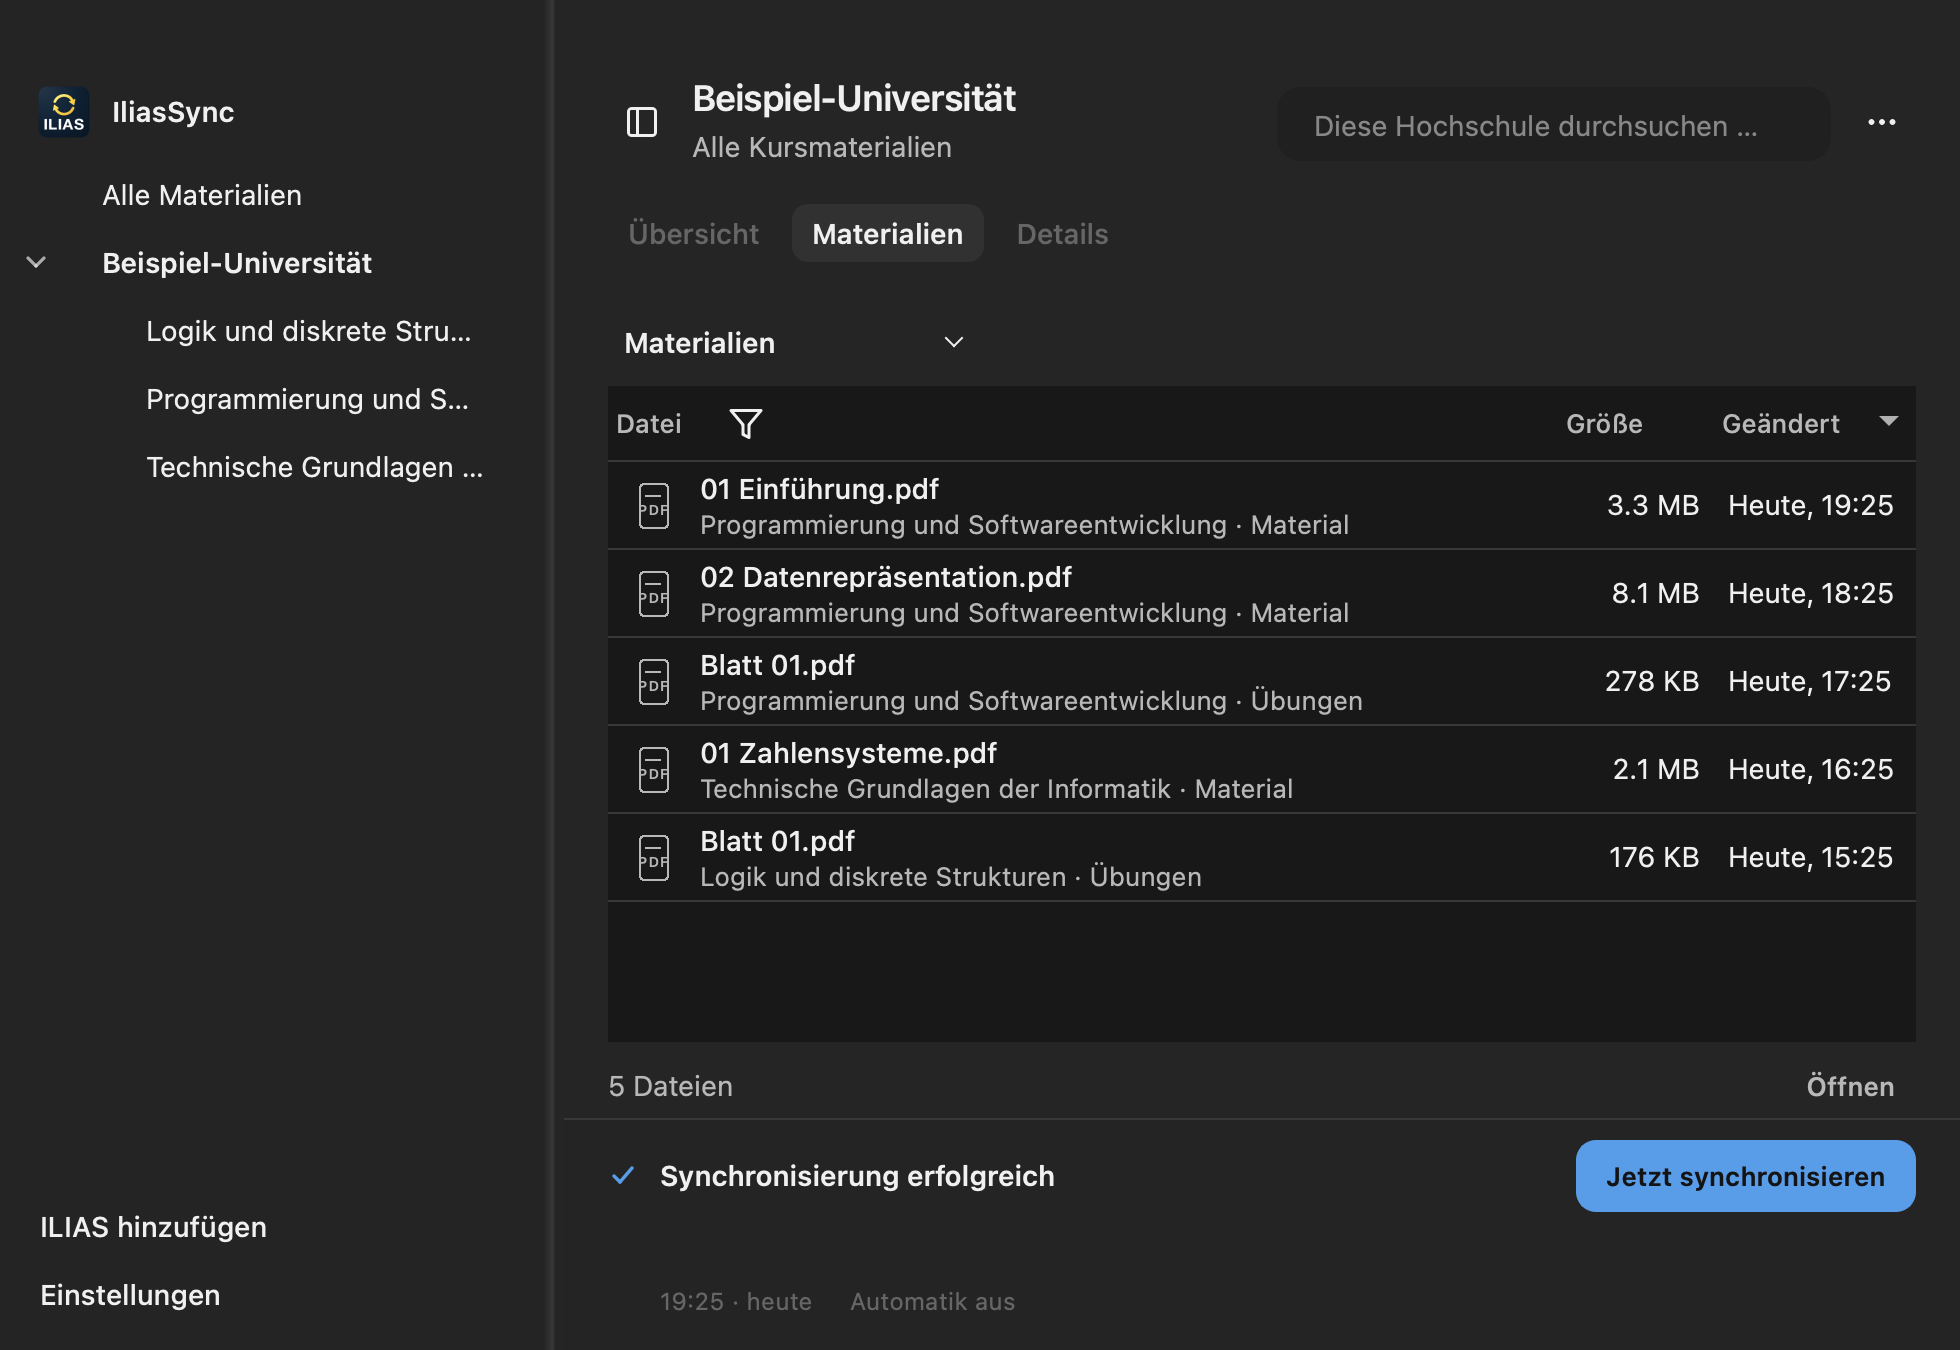
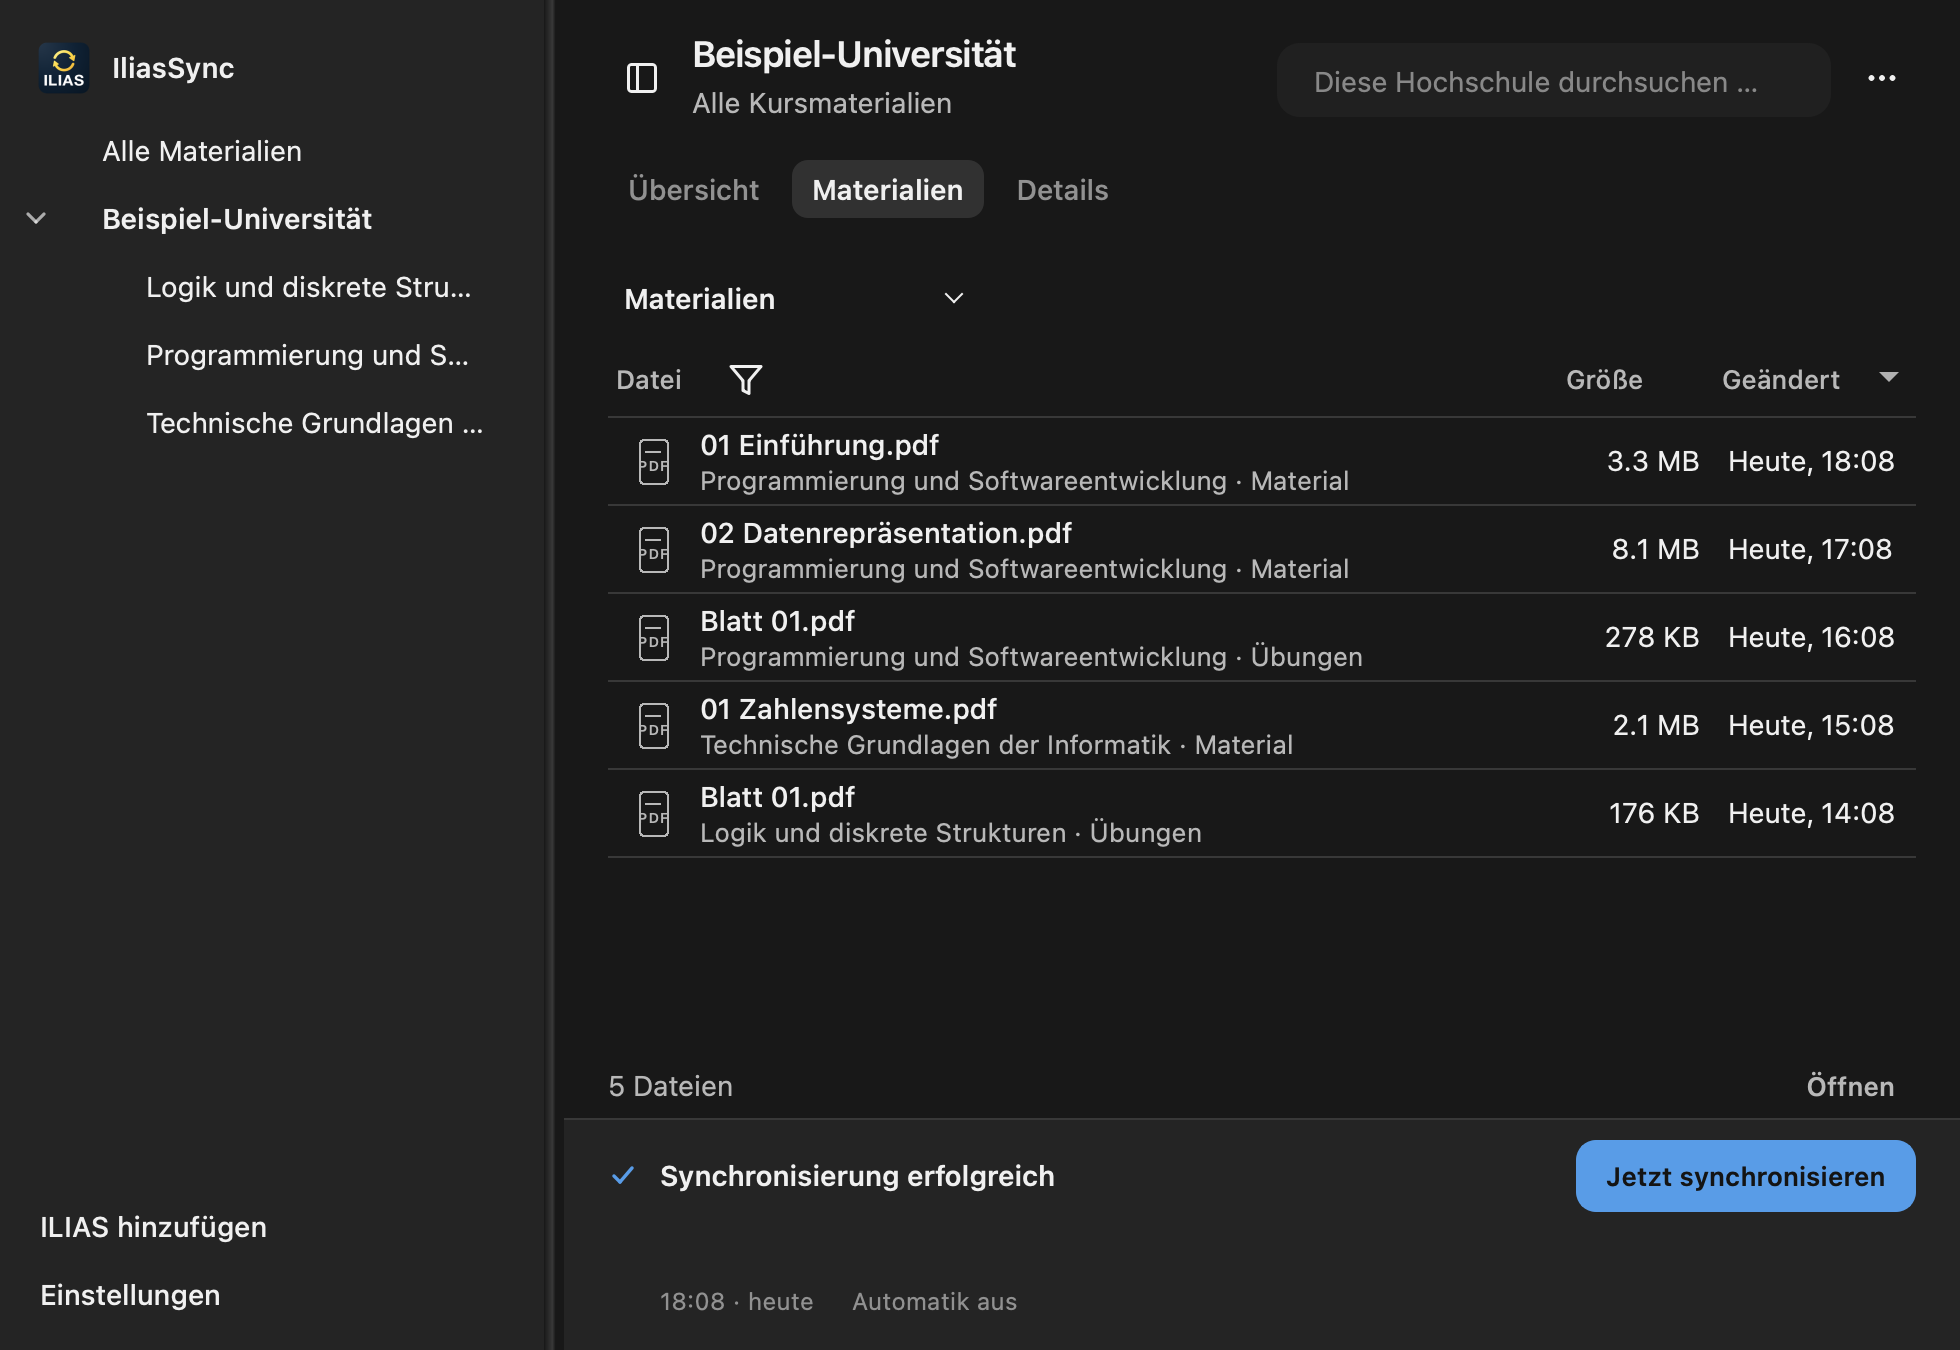
Prepare 1.0.2 installer release and refreshed dark preview

diff --git a/src/ilias_sync/__init__.py b/src/ilias_sync/__init__.py
@@ -1,1 +1,1 @@
-__version__ = "1.0.1"
+__version__ = "1.0.2"

diff --git a/docs/INSTALLATION.md b/docs/INSTALLATION.md
@@ -13,13 +13,36 @@ App vertraust; deaktivere keine systemweiten Schutzfunktionen.
 
 ## Windows
 
-Windows 10/11 x64. ZIP vollständig in einen dauerhaften Ordner entpacken.
-`IliasSync.exe` und `_internal` zusammen lassen. Das Windows-Paket hat keine
-Authenticode-Signatur; Windows kann eine Reputationswarnung anzeigen.
+Windows 10/11 x64. **Empfohlen:** `IliasSync-1.0.2-Windows-x64-Setup.exe` öffnen
+und dem Installationsassistenten folgen. Die App wird für deinen Benutzer unter
+`%LOCALAPPDATA%\Programs\IliasSync` installiert, ohne Administratorrechte.
+Danach findest du IliasSync im Startmenü; eine Desktop-Verknüpfung ist optional.
+Ein erneuter Installer-Lauf aktualisiert dieselbe Installation.
+
+**Portable Alternative:** ZIP zuerst über **Alle extrahieren** vollständig in
+einen dauerhaften Ordner entpacken. `IliasSync.exe` und `_internal` zusammen lassen.
+Ein Start direkt aus dem ZIP führt zu „Failed to load Python DLL“, weil Windows
+dabei nur die EXE temporär entpackt.
+
+Installer und App haben keine Authenticode-Signatur; Windows kann eine
+Reputationswarnung anzeigen. Der Installer beseitigt diese Signaturgrenze nicht.
 
 ## Linux
 
-x64, glibc 2.35+, grafische Sitzung. Beispiel für Ubuntu:
+x64, glibc 2.35+, grafische Sitzung. **Ubuntu 22.04+ / kompatible Debian-Systeme:**
+DEB über die grafische Paketverwaltung installieren oder im Download-Ordner:
+
+```sh
+sudo apt install ./IliasSync-1.0.2-Linux-x64.deb
+```
+
+APT installiert die benötigten Systembibliotheken. Die App liegt unter
+`/opt/iliassync`; ein Eintrag im App-Menü und der Befehl `ilias-sync` sind enthalten.
+Weitere Versionen desselben Pakets aktualisieren die vorhandene Installation.
+Auf Debian ist mindestens glibc 2.35 erforderlich, beispielsweise Debian 12+.
+
+**Andere Distributionen / portable Nutzung:** TAR.GZ vollständig entpacken,
+`./IliasSync/IliasSync` starten. Beispiel für die benötigten Bibliotheken auf Ubuntu:
 
 ```sh
 sudo apt install libegl1 libxkbcommon-x11-0 libxcb-cursor0 libdbus-1-3
@@ -27,8 +50,25 @@ sudo apt install libegl1 libxkbcommon-x11-0 libxcb-cursor0 libdbus-1-3
 
 Passwortspeicherung erfordert einen entsperrten Secret-Service- oder
 KWallet-Passwortspeicher. Hintergrundläufe benötigen eine systemd-Benutzersitzung.
-`install-desktop.sh` ist optional und erzeugt einen Menüeintrag für den aktuellen
-Benutzer. Das entpackte App-Verzeichnis muss danach an seinem Ort bleiben.
+Beim portablen Archiv erzeugt `install-desktop.sh` optional einen Menüeintrag für
+den aktuellen Benutzer. Das entpackte App-Verzeichnis muss danach an seinem Ort
+bleiben. Ein DEB ist kein Paket für RPM-basierte Distributionen.
+
+## Aktualisieren und deinstallieren
+
+Beende die App und einen laufenden Sync vor einem Update. Unter Windows den neuen
+Installer ausführen, unter Ubuntu/Debian das neue DEB installieren, unter macOS die
+App in Programme ersetzen.
+
+- **Windows:** Einstellungen → Apps → Installierte Apps → IliasSync → Deinstallieren.
+- **Ubuntu/Debian:** Über die Paketverwaltung entfernen oder `sudo apt remove iliassync`.
+- **macOS:** App aus Programme in den Papierkorb verschieben.
+
+Installationsdateien und Menüeinträge werden entfernt. Deine Materialordner,
+Einstellungen und Einträge im System-Passwortspeicher bleiben erhalten. Schalte vor
+einer dauerhaften Deinstallation die automatische Synchronisierung in der App aus,
+damit kein verwaister Zeitplan zurückbleibt. Bei einem Wechsel vom portablen Archiv
+zur installierten App den Zeitplan vom neuen Installationsort erneut speichern.
 
 ## Anmeldung
 

diff --git a/docs/DEVELOPMENT.md b/docs/DEVELOPMENT.md
@@ -26,7 +26,8 @@ Gesamtsammlung geprüft; Qt-Testfenster sammeln sich so nicht zwischen Modulen a
 | `python -m ilias_sync --sync` | Fällige Quellen einmal synchronisieren, danach beenden |
 | `python -m ilias_sync --sync --profile <UUID>` | Manueller Lauf; umgeht Fälligkeit und Akkupause |
 | `python -m ilias_sync --discover --profile <UUID>` | Beigetretene Kurse lesen |
-| `python scripts/build.py` | Natives Paket mit Lizenztexten und Prüfsumme bauen |
+| `python scripts/build.py` | Natives Paket, Windows-Setup bzw. Linux-DEB mit Lizenztexten und Prüfsummen bauen |
+| `python scripts/verify_install.py` | Nur auf isolierten CI-Runnern: Installer, installierte Runtime, erneute Installation und Deinstallation prüfen |
 | `python scripts/capture_product.py` | Reproduzierbare Qt-Screenshots mit synthetischen Beispielen |
 | `python scripts/review_interface.py` | Helle/dunkle UX-Zustände inklusive Fehler, Pause, Erststart und kompakter Fenster; Ausgabe unter `.local/redesign-review` |
 
@@ -40,4 +41,4 @@ und [Prüfgrenzen](VERIFICATION.md).
 
 ## Release erstellen
 
-Version in `pyproject.toml` und `src/ilias_sync/__init__.py` gemeinsam erhöhen, Release-Notizen unter `docs/releases/<version>.md` ergänzen und alle Änderungen prüfen. Der Workflow **Test and package** baut vier native Pakete. Erst nach seinem erfolgreichen Abschluss wird **Publish verified release** mit dessen Run-ID gestartet. Der Veröffentlichungsworkflow prüft Quelle, Version, alle vier Jobs und jede Prüfsumme. Kein Paket wird lokal für ein fremdes Betriebssystem vorgetäuscht.
+Version in `pyproject.toml` und `src/ilias_sync/__init__.py` gemeinsam erhöhen, Release-Notizen unter `docs/releases/<version>.md` ergänzen und alle Änderungen prüfen. Der Workflow **Test and package** baut auf vier nativen Zielen zwei DMGs, Windows-Setup und ZIP sowie Linux-DEB und TAR.GZ. Windows benötigt Inno Setup 6 (auf dem CI-Image vorhanden), Linux `dpkg-deb` und für die Installationsprüfung `desktop-file-validate`. Erst nach erfolgreichem Abschluss wird **Publish verified release** mit dessen Run-ID gestartet. Der Veröffentlichungsworkflow prüft Quelle, Version, alle vier Jobs und alle sechs Pakete mit ihren Prüfsummen. Kein Paket wird lokal für ein fremdes Betriebssystem vorgetäuscht.

diff --git a/docs/releases/1.0.2.md b/docs/releases/1.0.2.md
@@ -1,0 +1,15 @@
+# IliasSync 1.0.2
+
+Dieses Update vereinfacht die Installation unter Windows und Ubuntu/Debian und korrigiert die Darstellung außerhalb von macOS.
+
+- **Windows:** Neuer Setup-Assistent installiert die gesamte App für deinen Benutzer, legt einen Startmenü-Eintrag an und registriert die Deinstallation unter „Installierte Apps“. Eine Desktop-Verknüpfung ist optional. Das portable ZIP bleibt verfügbar; vor dem Start vollständig entpacken.
+- **Ubuntu/Debian:** Neues DEB-Paket mit App-Menü-Eintrag, Icon und benötigten Systembibliotheken. Über die Paketverwaltung installieren oder `sudo apt install ./IliasSync-1.0.2-Linux-x64.deb` ausführen. Andere Distributionen können weiterhin das portable TAR.GZ verwenden.
+- **Windows und Linux:** Fenster, Dialoge und Auswahlmenüs verwenden deckende Flächen statt Transparenz, die dort keinen nativen Hintergrund hatte. Das verhindert durchscheinende und falsch gemischte helle/dunkle Inhalte.
+- **Fehlerhinweise:** Die Beschreibung steht direkt unter und links bündig mit der Statusüberschrift; Uhrzeit und Zeitplan folgen darunter.
+- **GitHub:** Die Hauptvorschau zeigt die App immer im Darkmode.
+
+Installer und DEB enthalten Python und Qt. Installationsprüfungen auf nativen CI-Runnern kontrollieren die installierte Runtime, eine erneute Installation und die Deinstallation. Materialien und Einstellungen liegen außerhalb der Installation und werden beim Entfernen der App behalten. Vor einer dauerhaften Deinstallation die Automatik in der App ausschalten. Beim Wechsel vom portablen Paket den Zeitplan am neuen Installationsort erneut speichern.
+
+macOS 13+ (Apple Silicon/Intel), Windows 10/11 x64 und Linux x64 mit glibc 2.35+. Das DEB richtet sich an Ubuntu 22.04+ und kompatible Debian-Systeme. macOS-Pakete sind ad-hoc signiert, aber nicht notarisiert; Windows-App und Installer haben keine Authenticode-Signatur. Kein automatischer Updater.
+
+Alle Pakete und `SHA256SUMS` stehen unten. [Installation](https://github.com/schroedernils/ilias-sync/blob/v1.0.2/docs/INSTALLATION.md) · [Prüfgrenzen](https://github.com/schroedernils/ilias-sync/blob/v1.0.2/docs/VERIFICATION.md)

diff --git a/README.md b/README.md
@@ -42,10 +42,13 @@ Python und Qt sind in den Paketen enthalten. Lade das passende Paket aus dem [ak
 
 | Computer | Download | Start |
 | --- | --- | --- |
-| **Mac mit Apple Silicon** | `IliasSync-1.0.1-macOS-arm64.dmg` | DMG öffnen, App nach Programme ziehen. |
-| **Mac mit Intel** | `IliasSync-1.0.1-macOS-x64.dmg` | DMG öffnen, App nach Programme ziehen. |
-| **Windows 10/11, x64** | `IliasSync-1.0.1-Windows-x64.zip` | Komplett entpacken und `IliasSync.exe` starten. |
-| **Linux, x64** | `IliasSync-1.0.1-Linux-x64.tar.gz` | Entpacken und `./IliasSync/IliasSync` starten. |
+| **Mac mit Apple Silicon** | `IliasSync-1.0.2-macOS-arm64.dmg` | DMG öffnen, App nach Programme ziehen. |
+| **Mac mit Intel** | `IliasSync-1.0.2-macOS-x64.dmg` | DMG öffnen, App nach Programme ziehen. |
+| **Windows 10/11, x64** | `IliasSync-1.0.2-Windows-x64-Setup.exe` | Installationsassistent starten, danach IliasSync im Startmenü öffnen. |
+| **Ubuntu/Debian, x64** | `IliasSync-1.0.2-Linux-x64.deb` | Über die Paketverwaltung installieren, danach im App-Menü öffnen. |
+| **Andere Linux-Distributionen, x64** | `IliasSync-1.0.2-Linux-x64.tar.gz` | Entpacken; `install-desktop.sh` legt einen App-Menü-Eintrag an. |
+
+Für Windows bleibt ein portables ZIP verfügbar. **Dieses zuerst vollständig entpacken; die EXE direkt im ZIP zu starten funktioniert nicht.** Setup und DEB installieren alle mitgelieferten Laufzeitdateien gemeinsam. [Installation und Deinstallation →](docs/INSTALLATION.md)
 
 macOS 13+; Linux mit glibc 2.35+ und grafischer Sitzung. Mobile Betriebssysteme und native Windows/Linux-ARM-Pakete gehören nicht zu diesem Release. **Distribution:** macOS-Pakete sind ad-hoc signiert, aber nicht notarisiert; Windows-Pakete haben keine Authenticode-Signatur. Ein automatischer Updater ist noch nicht enthalten. [Systemanforderungen, Passwortspeicher und Prüfsummen →](docs/INSTALLATION.md)
 

diff --git a/docs/VERIFICATION.md b/docs/VERIFICATION.md
@@ -1,5 +1,28 @@
 # Verification boundaries
 
+## Installer and surface corrections — 1.0.2
+
+Windows packaging now builds an Inno Setup installer alongside the portable ZIP. Linux
+packaging builds a DEB alongside the portable TAR.GZ. The release gate requires all six
+packages from four native targets and verifies every SHA-256 sidecar before publishing.
+Windows/Linux CI also installs the actual package, checks the installed offline runtime,
+repeats installation, removes the app and checks retention of an isolated data sentinel.
+The DEB desktop entry is validated; Windows checks its Start-menu shortcut and uninstall
+registration. These checks do not establish real account or credential-vault compatibility.
+
+The UI correction aligns error descriptions immediately beneath the heading, before timing
+metadata. Linux/Windows use solid window, dialog and popup surfaces, including the setup
+dialog from the reported Windows screenshot. Product screenshots are regenerated from
+synthetic materials; the README always selects the dark overview. Earlier Linux guest
+checks below apply to the same opaque-surface correction. Release-specific CI and direct
+Windows guest evidence are recorded separately when complete.
+
+Local release preparation passed **307 tests** in 39 isolated modules, Ruff and
+whitespace checks. The synthetic interface review rendered **101 states**, including
+setup, dark/light, compact windows and recovery. The regenerated dark overview,
+light setup and error footer were inspected. This is synthetic Qt evidence, not a
+Windows desktop or installed-package proof.
+
 ## Linux surface rendering — Ubuntu 26.04 ARM64
 
 The former stylesheet requested translucent surfaces without a native backdrop on Linux. The

diff --git a/CHANGELOG.md b/CHANGELOG.md
@@ -1,5 +1,14 @@
 # Changelog
 
+## 1.0.2 — 2026-11-04
+
+- Add a per-user Windows setup wizard with Start menu entry, optional desktop shortcut and registered uninstaller.
+- Add an Ubuntu/Debian DEB package with desktop launcher, application icon and declared runtime dependencies.
+- Verify installed executables, repeat installation and removal on native Windows/Linux CI runners; keep portable archives available.
+- Use solid window, dialog and popup surfaces outside macOS to avoid transparency and mixed-background rendering on Windows/Linux.
+- Place sync error descriptions directly beneath and aligned with the status heading, before timestamps and schedule details.
+- Use the dark product screenshot as the fixed GitHub README preview.
+
 ## 1.0.1
 
 - Fix macOS sidebar resizing by letting Qt own the expanded client area and preserving its native view hierarchy.
